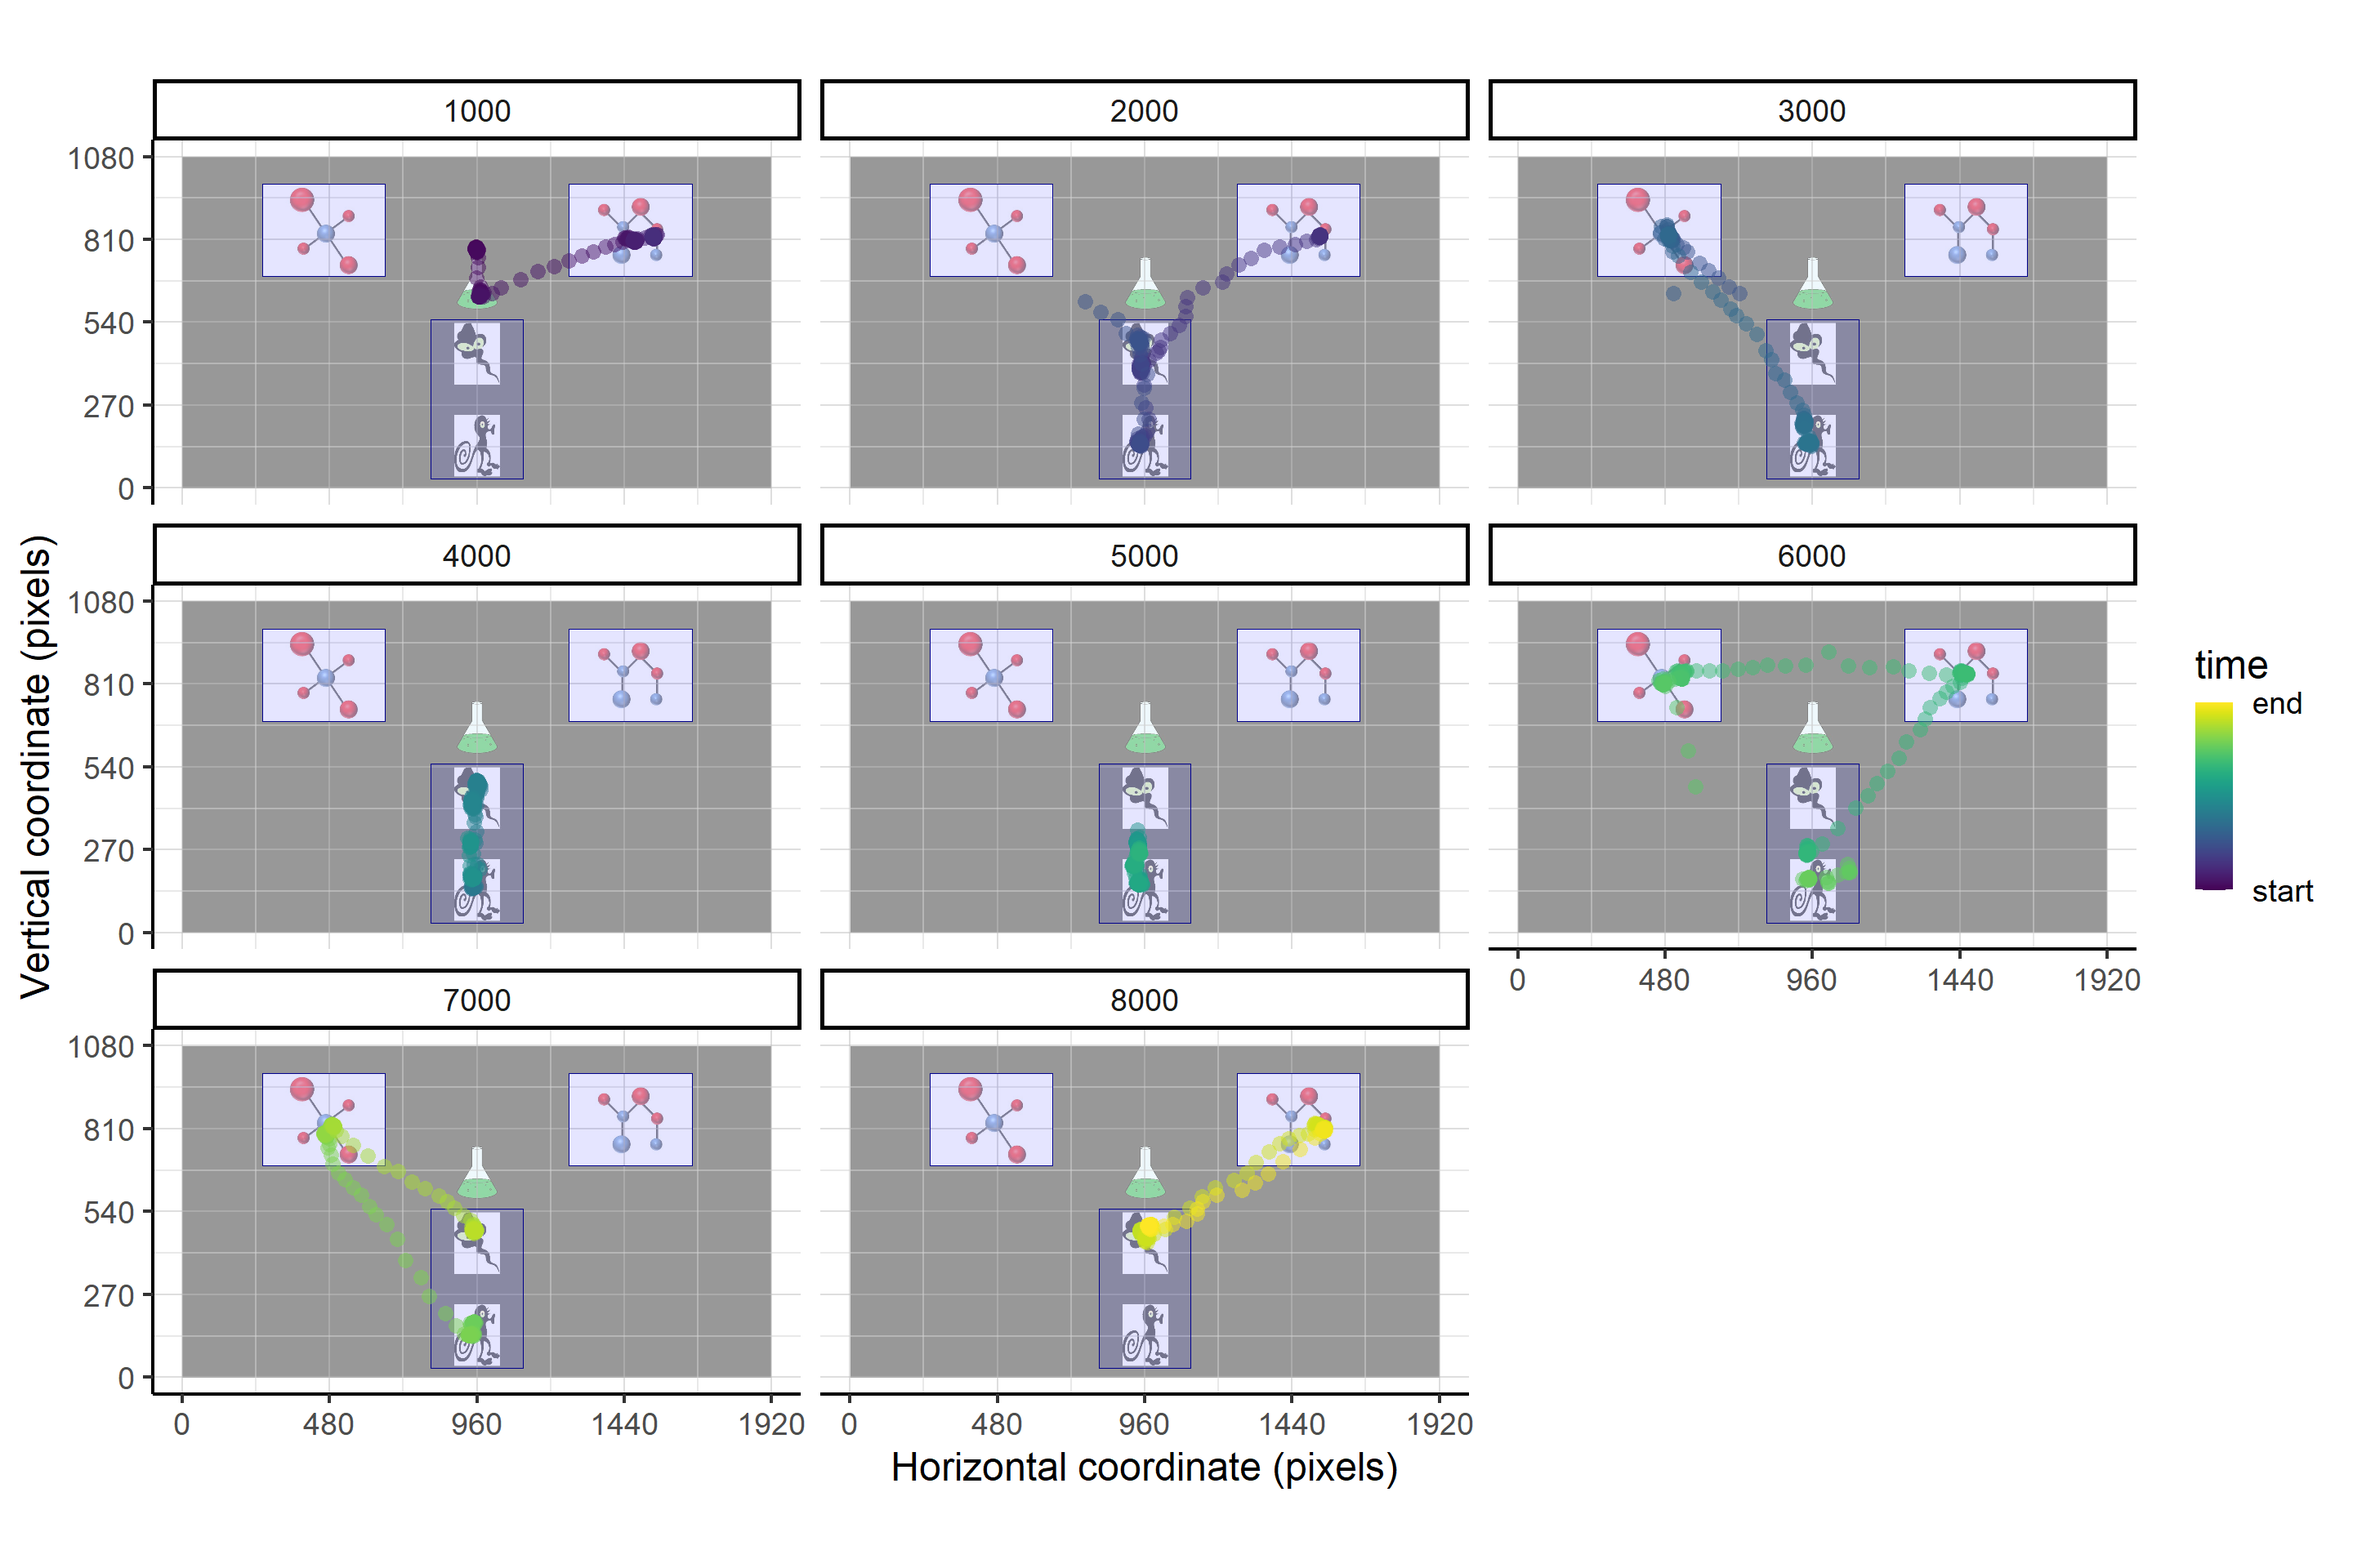
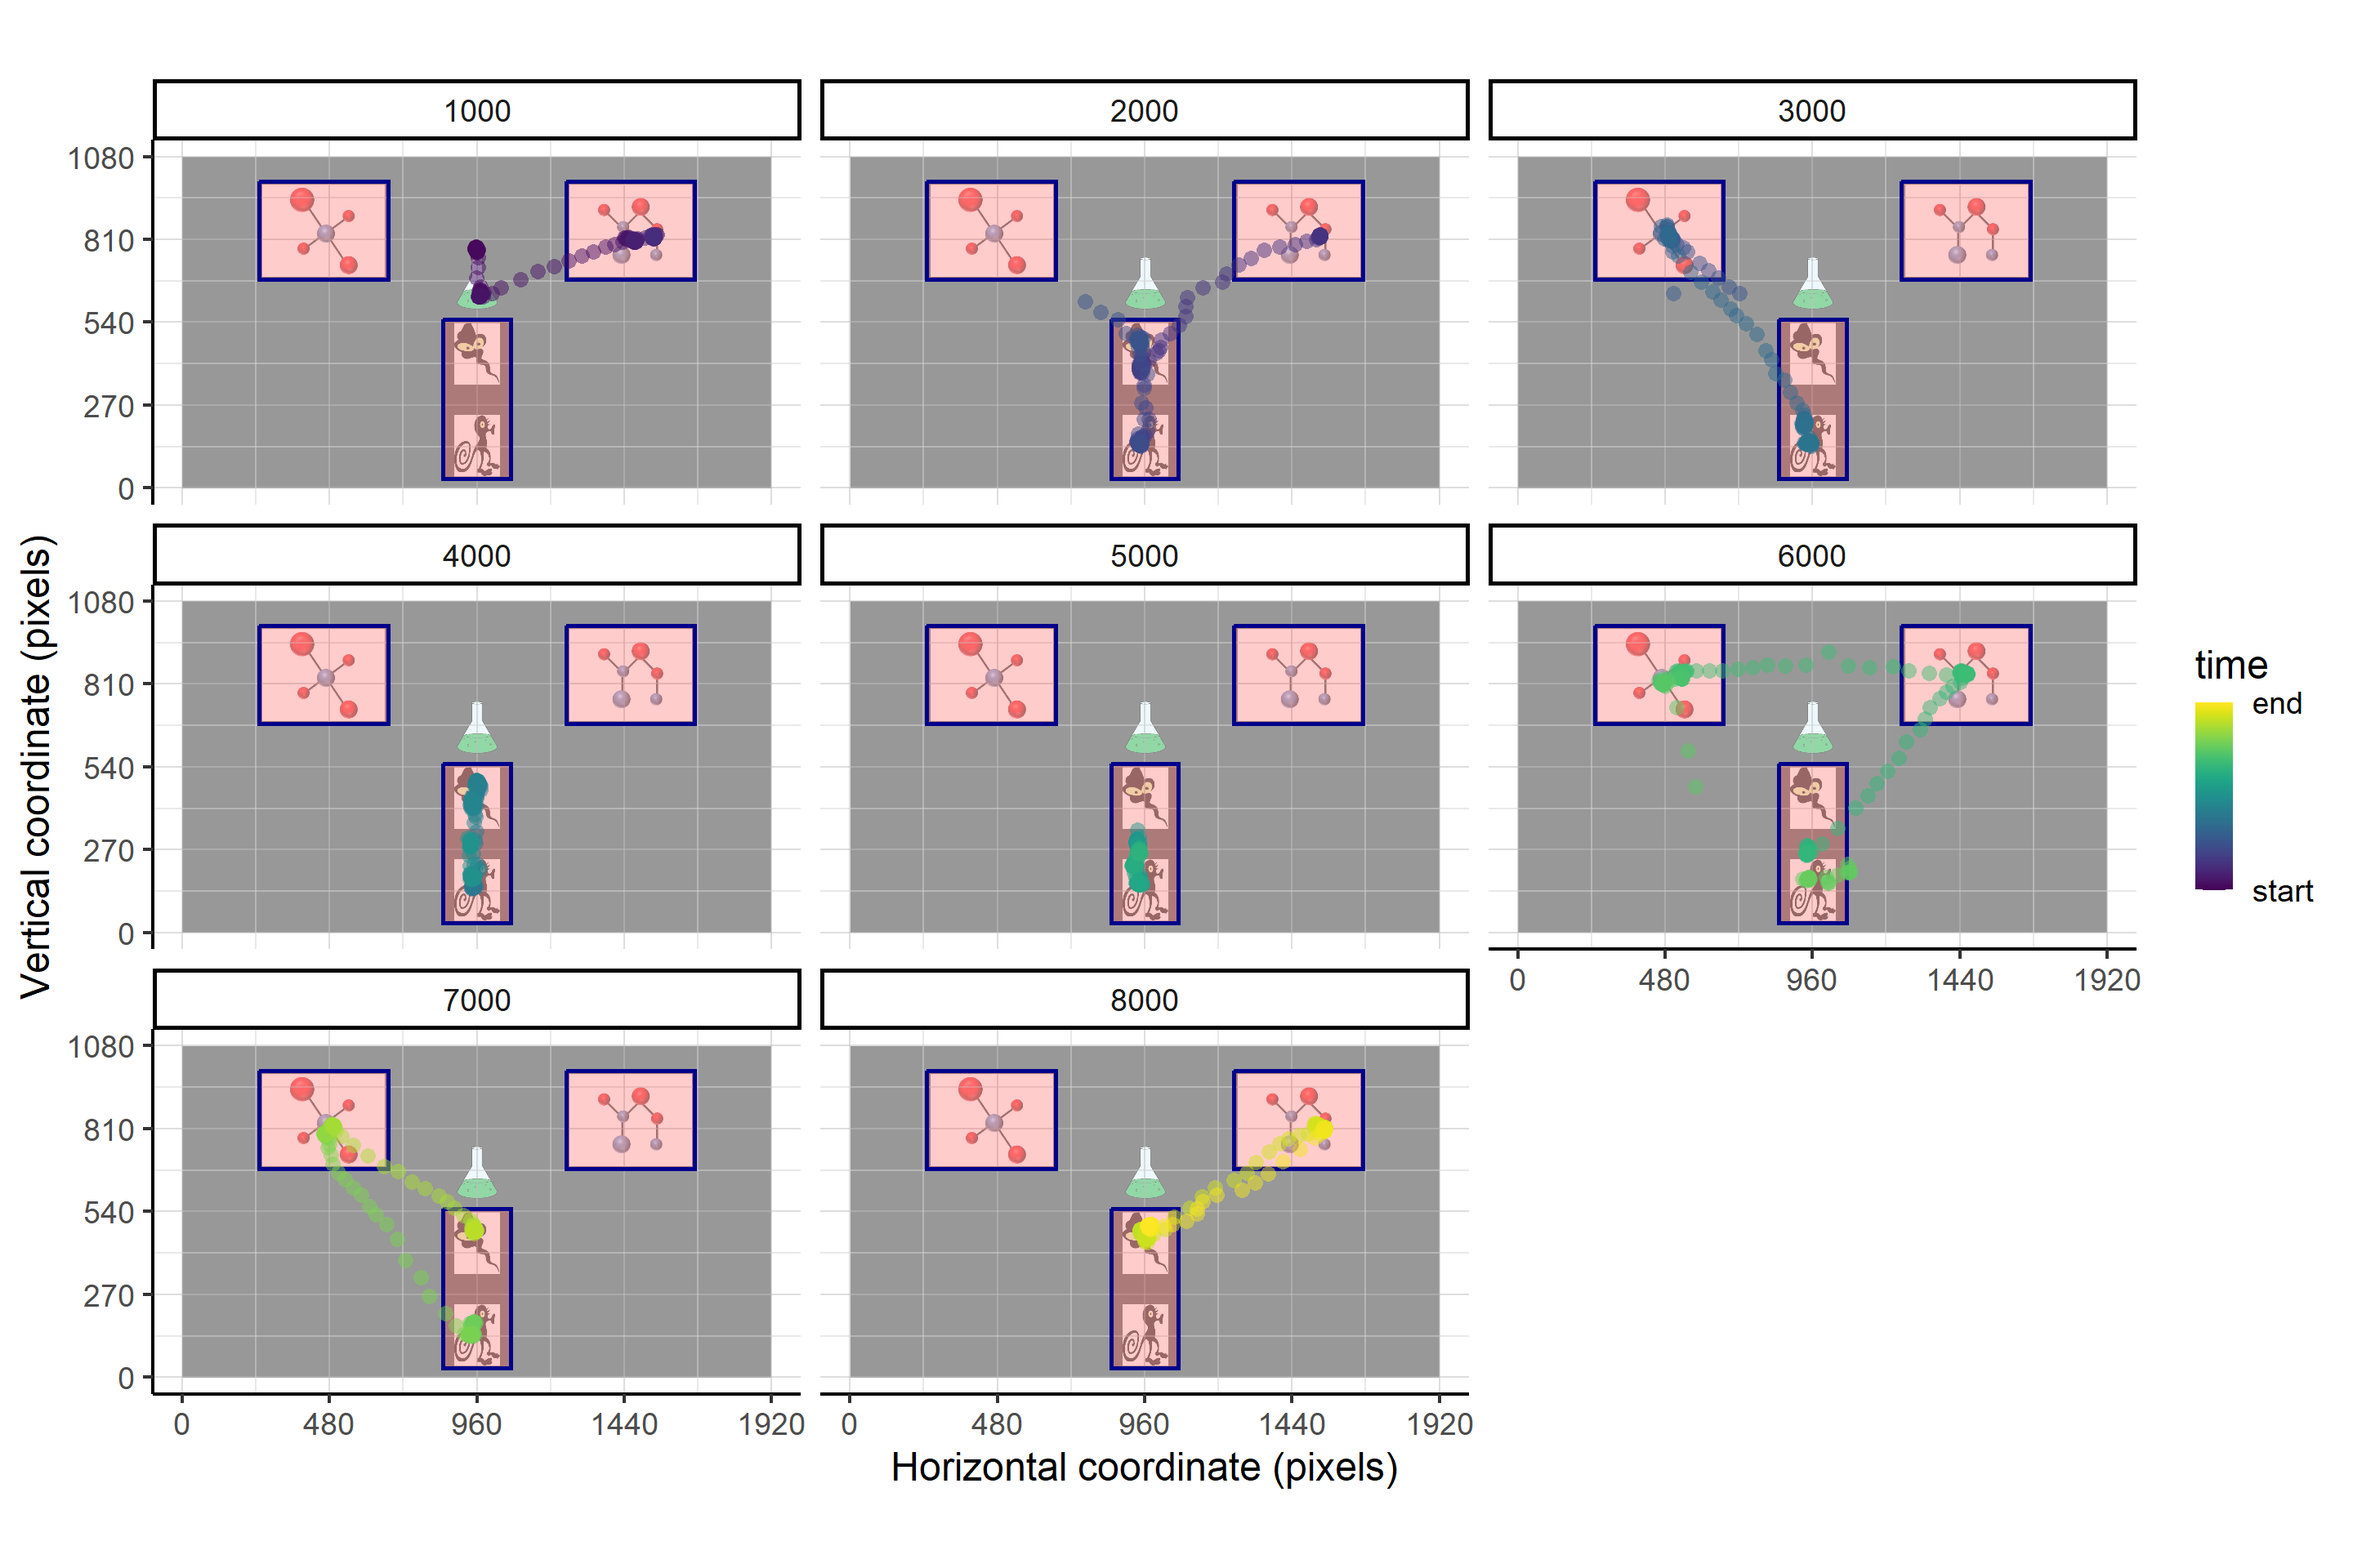
update to eyetools 0.9.0

diff --git a/eyetools_eps_april_25.html b/eyetools_eps_april_25.html
@@ -6,10 +6,10 @@
 <script src="eyetools_eps_april_25_files/libs/quarto-html/tippy.umd.min.js"></script>
 <link href="eyetools_eps_april_25_files/libs/quarto-html/tippy.css" rel="stylesheet">
 <link href="eyetools_eps_april_25_files/libs/quarto-html/light-border.css" rel="stylesheet">
-<link href="eyetools_eps_april_25_files/libs/quarto-html/quarto-syntax-highlighting-07ba0ad10f5680c660e360ac31d2f3b6.css" rel="stylesheet" id="quarto-text-highlighting-styles">
+<link href="eyetools_eps_april_25_files/libs/quarto-html/quarto-syntax-highlighting-e26003cea8cd680ca0c55a263523d882.css" rel="stylesheet" id="quarto-text-highlighting-styles">
 <link href="eyetools_eps_april_25_files/libs/quarto-contrib/fontawesome6-1.2.0/all.min.css" rel="stylesheet">
 <link href="eyetools_eps_april_25_files/libs/quarto-contrib/fontawesome6-1.2.0/latex-fontsize.css" rel="stylesheet"><meta charset="utf-8">
-  <meta name="generator" content="quarto-1.6.33">
+  <meta name="generator" content="quarto-1.6.39">
 
   <meta name="author" content="Tom Beesley and Matthew Ivory">
   <title>eyetools: A set of tools for eye data processing, analysis and visualisation in R</title>
@@ -116,7 +116,7 @@
     div.csl-indent {
       margin-left: 2em;
     }  </style>
-  <link rel="stylesheet" href="eyetools_eps_april_25_files/libs/revealjs/dist/theme/quarto-08c62622d7acca53e05b293ee8cc2ff7.css">
+  <link rel="stylesheet" href="eyetools_eps_april_25_files/libs/revealjs/dist/theme/quarto-7cb042cf45b66b721d320c14e8aa6ee1.css">
   <link href="eyetools_eps_april_25_files/libs/revealjs/plugin/quarto-line-highlight/line-highlight.css" rel="stylesheet">
   <link href="eyetools_eps_april_25_files/libs/revealjs/plugin/reveal-menu/menu.css" rel="stylesheet">
   <link href="eyetools_eps_april_25_files/libs/revealjs/plugin/reveal-menu/quarto-menu.css" rel="stylesheet">
@@ -550,9 +550,9 @@ Tom Beesley and Matthew Ivory
 <span id="cb17-2"><a href=""></a>HCL_AOIs</span></code><button title="Copy to Clipboard" class="code-copy-button"><i class="bi"></i></button></pre></div>
 <div class="cell-output cell-output-stdout">
 <pre><code>     x   y width_radius height
-1  460 840          400    300
-2 1460 840          400    300
-3  960 290          300    520</code></pre>
+1  460 840          420    320
+2 1460 840          420    320
+3  960 290          220    520</code></pre>
 </div>
 </div>
 </div><div class="column" style="width:10%;">
@@ -596,24 +596,24 @@ Tom Beesley and Matthew Ivory
 <div class="cell">
 <div class="cell-output cell-output-stdout">
 <pre><code>   pID trial   AOI time
-1  118     1  left 2809
-2  118     1 right  811
-3  118     1 lower 3227
-4  118     2  left  656
-5  118     2 right  723
-6  118     2 lower 2621
-7  118     3  left  443
-8  118     3 right  360
-9  118     3 lower 2218
-10 118     4  left 1417
-11 118     4 right 2323
-12 118     4 lower 1439
-13 118     5  left  164
-14 118     5 right  537
-15 118     5 lower 1708
-16 118     6  left  426
-17 118     6 right  563
-18 118     6 lower 2022</code></pre>
+1  118     1  left 3500
+2  118     1 right 1598
+3  118     1 lower 5886
+4  118     2  left 1400
+5  118     2 right 1292
+6  118     2 lower 3924
+7  118     3  left  576
+8  118     3 right  743
+9  118     3 lower 2932
+10 118     4  left 2563
+11 118     4 right 3574
+12 118     4 lower 2609
+13 118     5  left  253
+14 118     5 right 1101
+15 118     5 lower 2136
+16 118     6  left  789
+17 118     6 right  909
+18 118     6 lower 2564</code></pre>
 </div>
 </div>
 </div></div>
@@ -631,17 +631,17 @@ Tom Beesley and Matthew Ivory
 </div><div class="column">
 <div class="cell-output cell-output-stdout">
 <pre><code>   pID trial   AOI start   end duration entry_n
-1  118     1 lower   353   613      260       1
-2  118     1  left   817  1153      336       2
-3  118     1 lower  1750  2000      250       3
-4  118     1 right  2363  2603      240       4
-5  118     1 lower  3206  3489      283       5
-6  118     1 right  3896  4093      197       6
-7  118     1 lower  4393  5146      753       7
-8  118     1  left  5556  6642     1086       8
-9  118     1  left  7732  9129     1397       9
-10 118     1 lower  9452 10322      870      10
-11 118     1 lower 11015 11892      877      11</code></pre>
+1  118     1 lower   437   750      313       1
+2  118     1  left   783  1183      400       2
+3  118     1 lower  1383  2190      807       3
+4  118     1 right  2236  2693      457       4
+5  118     1 lower  2743  3676      933       5
+6  118     1 right  3726  4223      497       6
+7  118     1 lower  4269  5339     1070       7
+8  118     1  left  5379  6792     1413       8
+9  118     1  left  7632  9295     1663       9
+10 118     1 lower  9325 10439     1114      10
+11 118     1  left 10495 10705      210      11</code></pre>
 </div>
 </div></div>
 </section>
@@ -1043,8 +1043,6 @@ Salvucci, Dario D., and Joseph H. Goldberg. 2000. <span>“Identifying Fixations
       });
       clipboard.on('success', onCopySuccess);
       if (window.document.getElementById('quarto-embedded-source-code-modal')) {
-        // For code content inside modals, clipBoardJS needs to be initialized with a container option
-        // TODO: Check when it could be a function (https://github.com/zenorocha/clipboard.js/issues/860)
         const clipboardModal = new window.ClipboardJS('.code-copy-button[data-in-quarto-modal]', {
           text: getTextToCopy,
           container: window.document.getElementById('quarto-embedded-source-code-modal')
